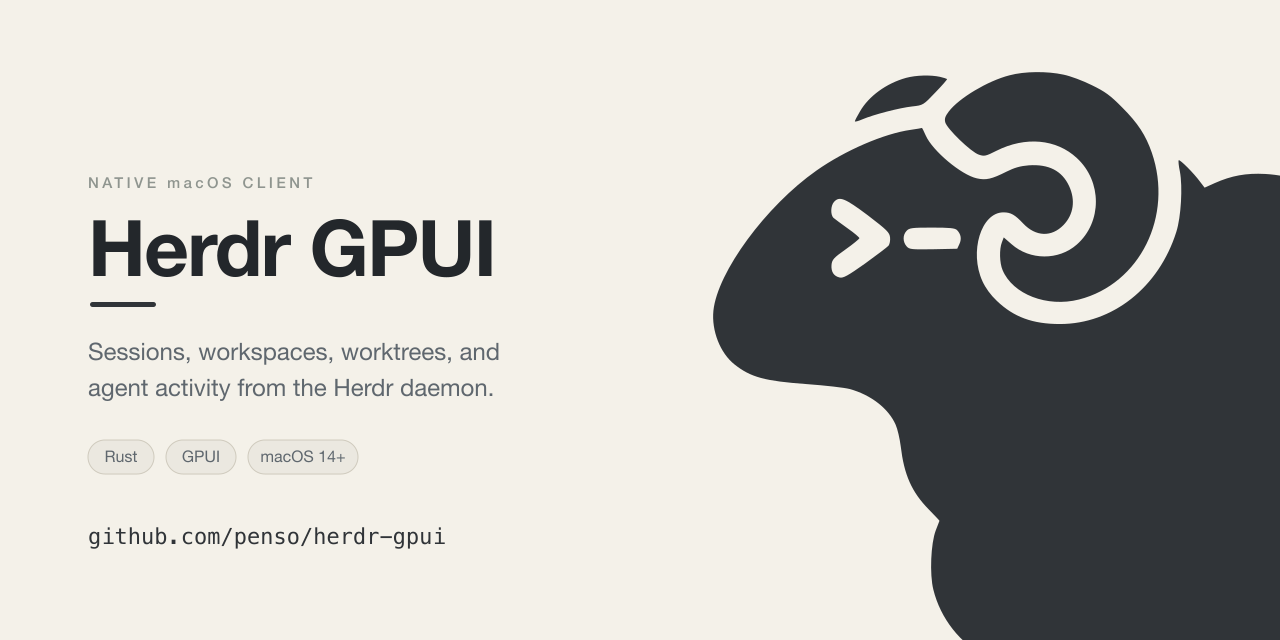
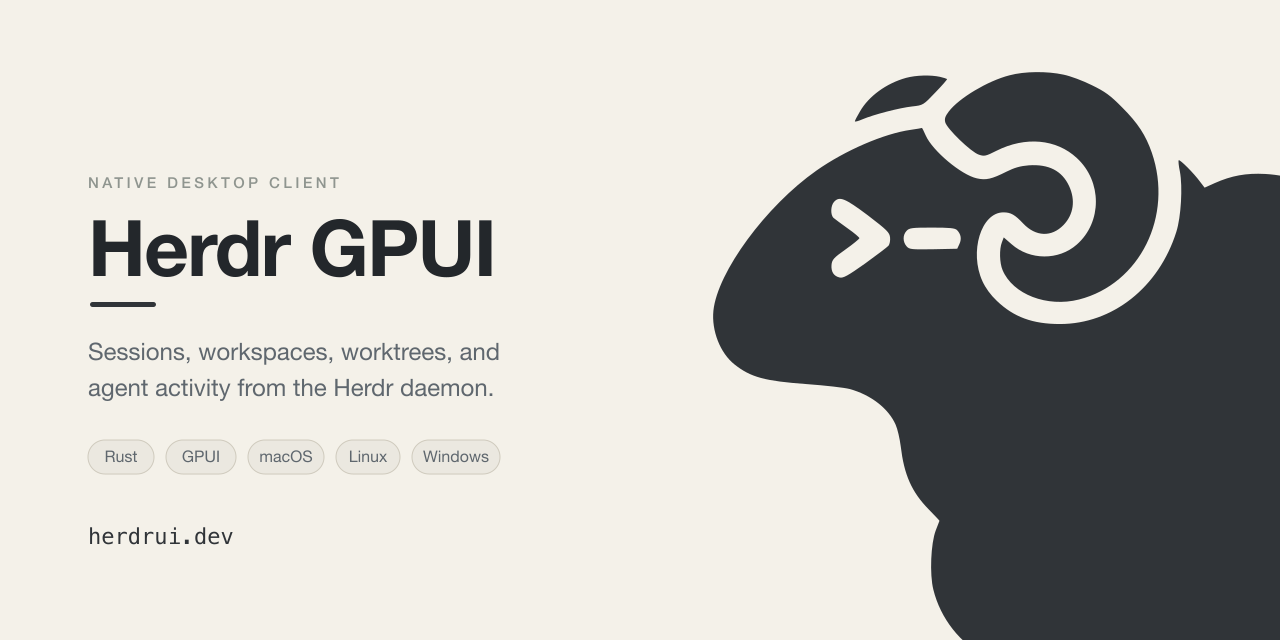
fix(site): describe Herdr GPUI as a macOS, Linux and Windows client
The social previews and the link card's alt text still called it a native macOS client and showed a macOS 14+ chip. They now say native client, list macOS, Linux and Windows, and show herdrui.dev instead of the repository path. PNGs re-rendered from the SVG sources with rsvg-convert.

(cherry picked from commit 1c21fa8fd2389a24cd55b1f924b3359ac5a32a8b)

Changed region(s): [[0.0625, 0.8125, 0.3438, 0.875], [0.2188, 0.6875, 0.375, 0.75], [0.125, 0.2812, 0.25, 0.3125]]

diff --git a/site/index.html b/site/index.html
@@ -17,12 +17,12 @@
 <meta property="og:image:type" content="image/png">
 <meta property="og:image:width" content="1280">
 <meta property="og:image:height" content="640">
-<meta property="og:image:alt" content="Herdr GPUI: native macOS client for the Herdr daemon, beside a window with a workspace sidebar and terminal panes.">
+<meta property="og:image:alt" content="Herdr GPUI: native client for the Herdr daemon on macOS, Linux and Windows, beside a window with a workspace sidebar and terminal panes.">
 <meta name="twitter:card" content="summary_large_image">
 <meta name="twitter:title" content="Herdr GPUI: a native window for the Herdr daemon">
 <meta name="twitter:description" content="Herdr's TUI is great. Here's what a window adds.">
 <meta name="twitter:image" content="https://herdrui.dev/assets/social-preview-dark.png">
-<meta name="twitter:image:alt" content="Herdr GPUI: native macOS client for the Herdr daemon, beside a window with a workspace sidebar and terminal panes.">
+<meta name="twitter:image:alt" content="Herdr GPUI: native client for the Herdr daemon on macOS, Linux and Windows, beside a window with a workspace sidebar and terminal panes.">
 <link rel="stylesheet" href="assets/kit.css">
 <link rel="stylesheet" href="assets/site.css">
 <script src="assets/kit.js"></script>
